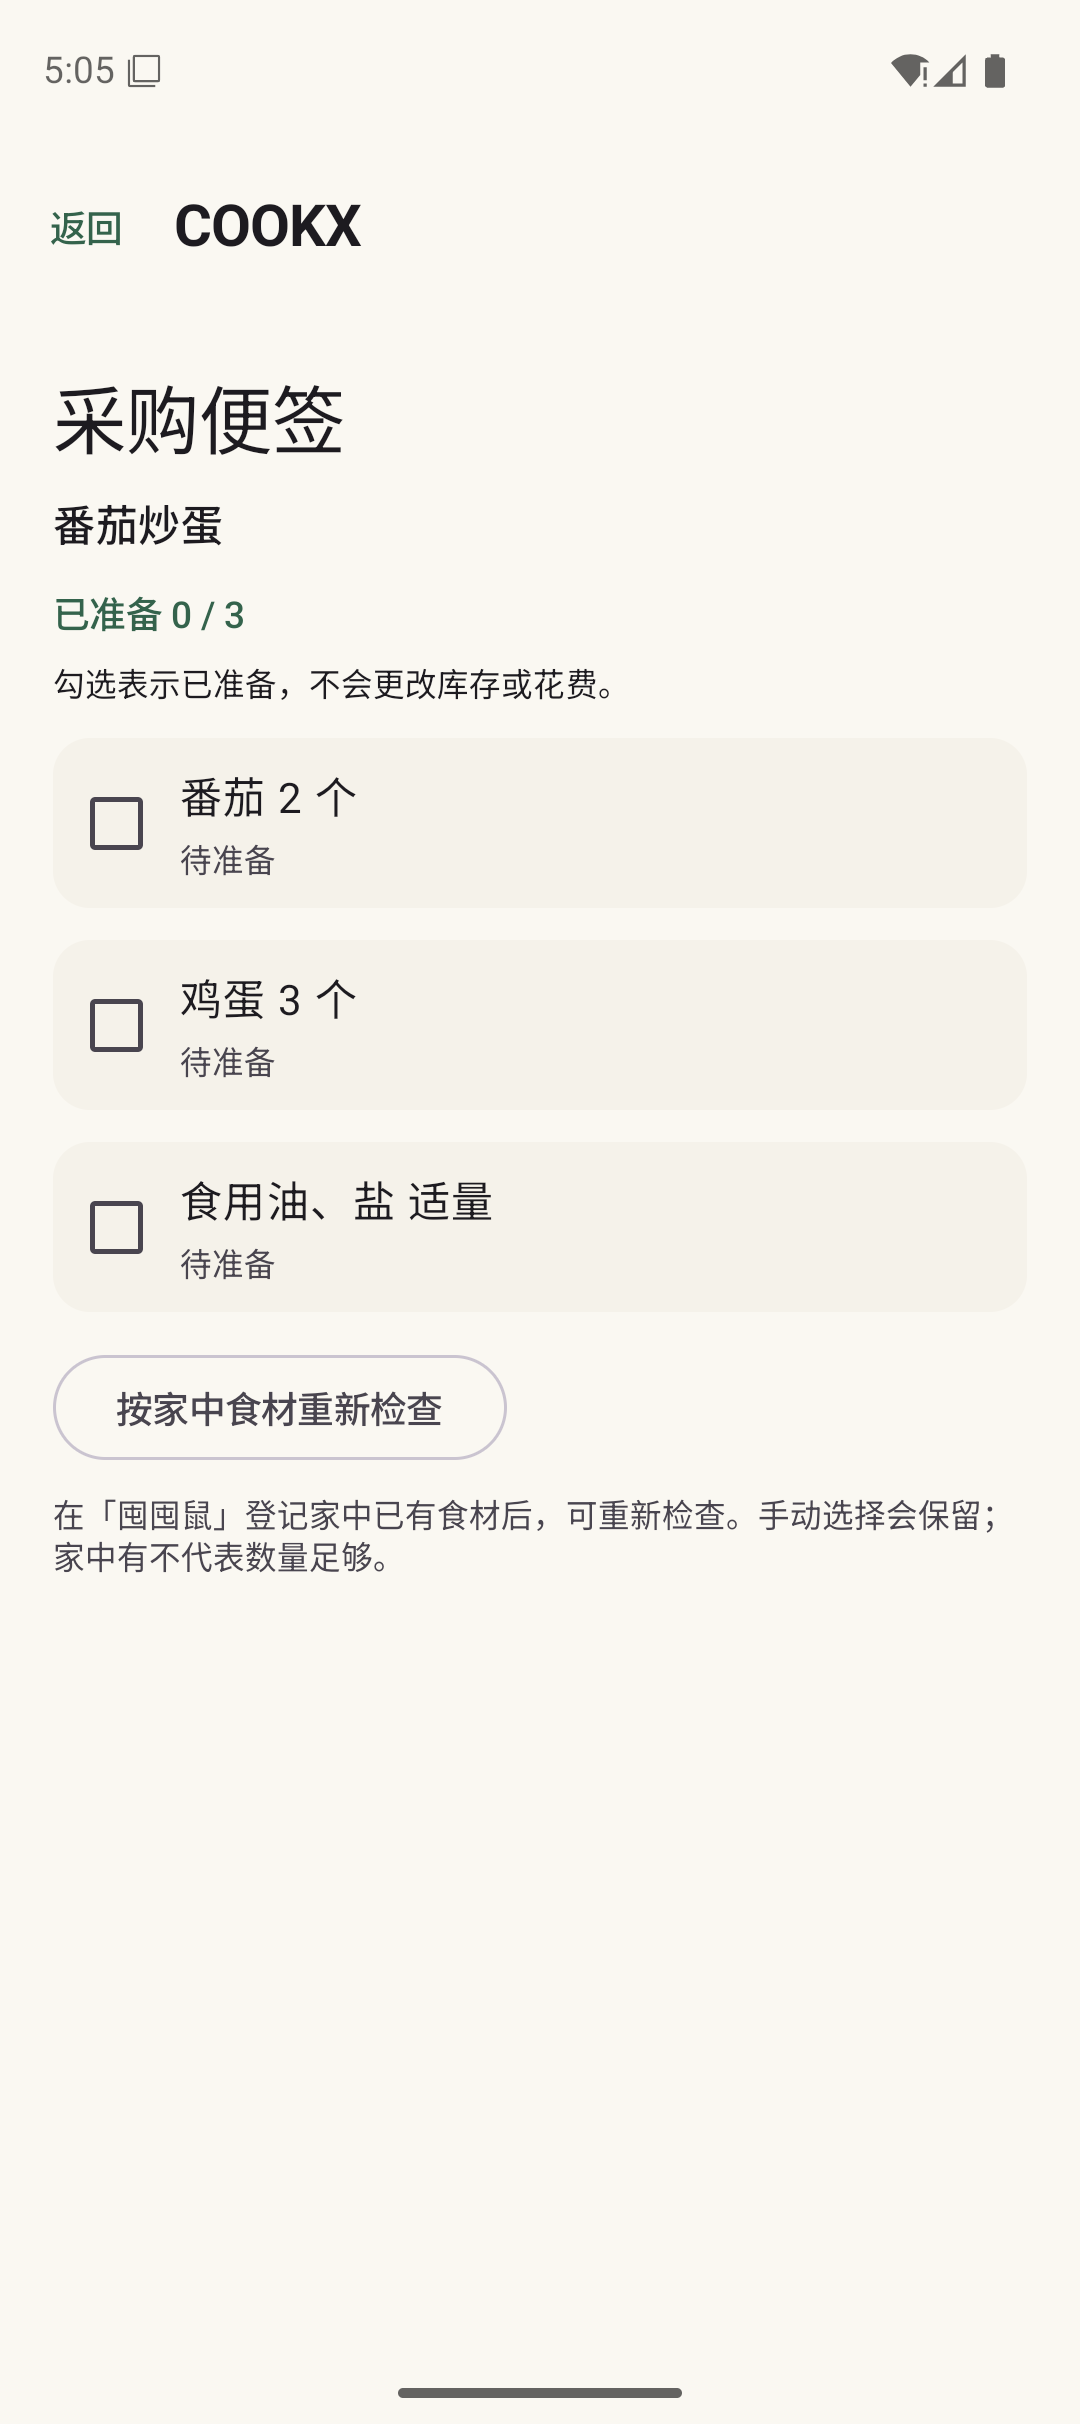
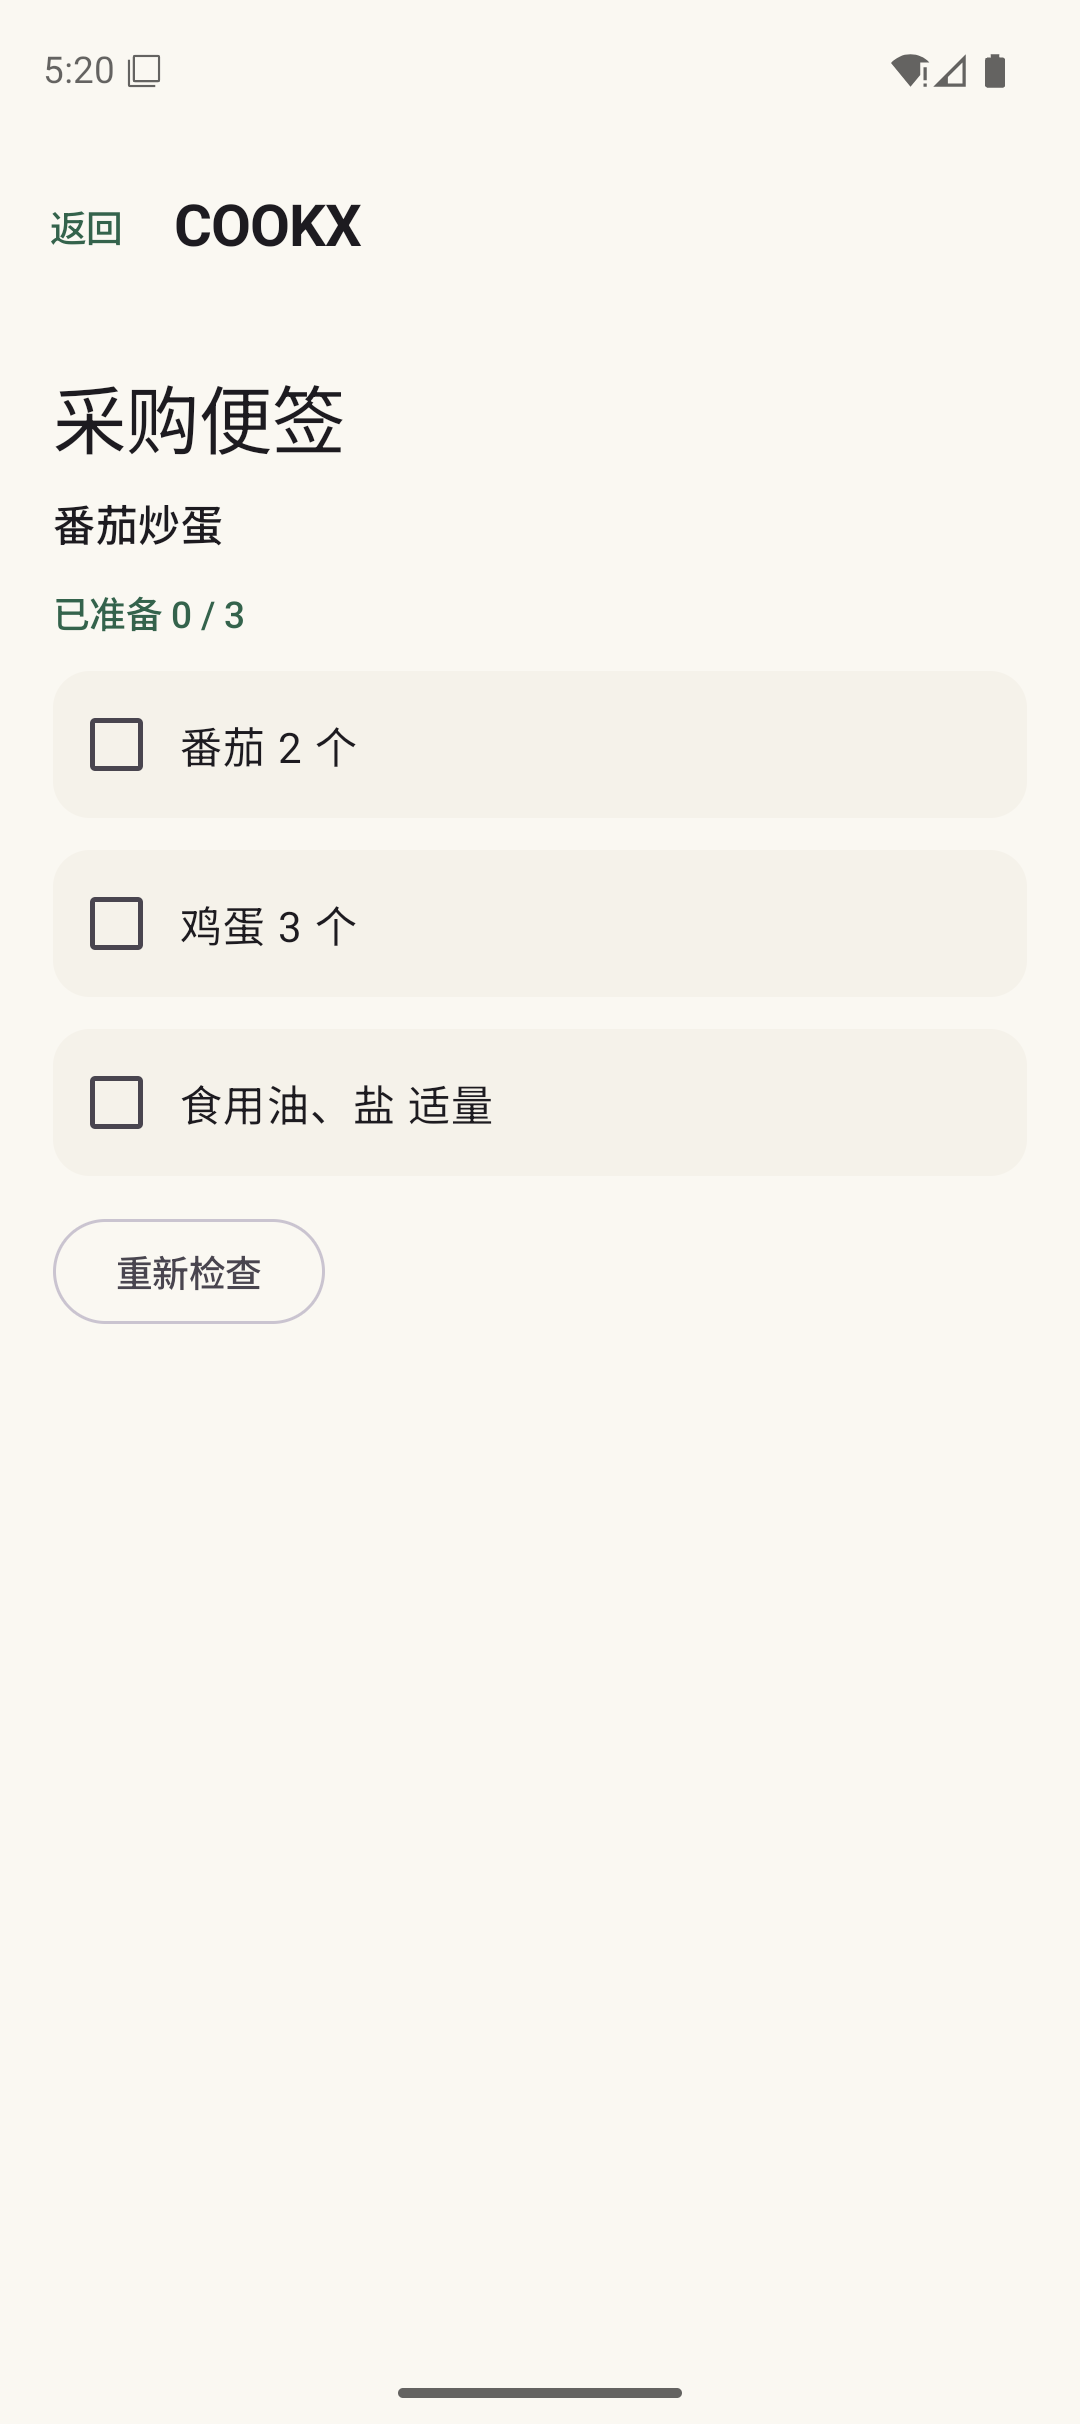
style: remove explanatory microcopy from shopping and pantry screens

diff --git a/app/src/main/kotlin/com/cookx/app/ui/ShoppingMemoScreen.kt b/app/src/main/kotlin/com/cookx/app/ui/ShoppingMemoScreen.kt
@@ -24,11 +24,10 @@ import com.cookx.app.domain.*
             Text(recipe.name, Modifier.padding(top = 8.dp), style = MaterialTheme.typography.titleMedium)
             Text("已准备 ${memo.items.count { it.checked }} / ${memo.items.size}", Modifier.padding(top = 12.dp),
                 style = MaterialTheme.typography.labelLarge, color = MaterialTheme.colorScheme.primary)
-            Text("勾选表示已准备，不会更改库存或花费。", Modifier.padding(top = 8.dp), style = MaterialTheme.typography.bodySmall)
         }
         items(memo.items, key = { it.key }) { item ->
             Surface(shape = RoundedCornerShape(14.dp), color = MaterialTheme.colorScheme.surfaceContainerLow) {
-                Row(Modifier.fillMaxWidth().toggleable(value = item.checked, enabled = !busy, role = Role.Checkbox,
+                Row(Modifier.fillMaxWidth().heightIn(min = 56.dp).toggleable(value = item.checked, enabled = !busy, role = Role.Checkbox,
                     onValueChange = { check(item.key, it) }).testTag("shopping:${item.key}").padding(horizontal = 12.dp, vertical = 10.dp),
                     verticalAlignment = Alignment.CenterVertically) {
                     Checkbox(checked = item.checked, onCheckedChange = null, enabled = !busy)
@@ -36,20 +35,13 @@ import com.cookx.app.domain.*
                     Column(Modifier.weight(1f), verticalArrangement = Arrangement.spacedBy(4.dp)) {
                         Text(item.ingredient, style = MaterialTheme.typography.bodyLarge,
                             textDecoration = if (item.checked) TextDecoration.LineThrough else null)
-                        Text(when (item.source) {
-                            PreparationSource.PANTRY -> "家中已有 · 请核对余量"
-                            PreparationSource.MANUAL -> if (item.checked) "手动勾选" else "手动标记待准备"
-                            PreparationSource.PENDING -> "待准备"
-                        }, style = MaterialTheme.typography.bodySmall, color = MaterialTheme.colorScheme.onSurfaceVariant)
+
                     }
                 }
             }
         }
         item {
-            OutlinedButton(onClick = recheck, enabled = !busy) { Text("按家中食材重新检查") }
-            Text("在「囤囤鼠」登记家中已有食材后，可重新检查。手动选择会保留；家中有不代表数量足够。",
-                Modifier.padding(top = 8.dp), style = MaterialTheme.typography.bodySmall,
-                color = MaterialTheme.colorScheme.onSurfaceVariant)
+            OutlinedButton(onClick = recheck, enabled = !busy) { Text("重新检查") }
         }
     }
 }
@@ -62,23 +54,19 @@ import com.cookx.app.domain.*
         item {
             Text("囤囤鼠", style = MaterialTheme.typography.headlineMedium)
             Text("家中已有食材", Modifier.padding(top = 12.dp), style = MaterialTheme.typography.titleMedium)
-            Text("登记家里有的食材，用来预选采购便签。这里只记录是否已有，暂不记录数量和采购花费。",
-                Modifier.padding(top = 8.dp), style = MaterialTheme.typography.bodySmall)
         }
         item {
-            OutlinedTextField(name, { name = it.take(64) }, label = { Text("食材名称，例如：鸡蛋") }, singleLine = true, modifier = Modifier.fillMaxWidth())
+            OutlinedTextField(name, { name = it.take(64) }, label = { Text("食材名称") }, singleLine = true, modifier = Modifier.fillMaxWidth())
             Button(onClick = { add(name) }, enabled = name.isNotBlank() && !busy, modifier = Modifier.padding(top = 10.dp)) { Text("登记家中已有") }
-            Text("请使用与菜谱相同的食材名称；不会自动匹配替代品。", Modifier.padding(top = 6.dp), style = MaterialTheme.typography.bodySmall)
         }
-        if (pantry.isEmpty()) item { Text("还没有登记食材。采购便签仍可手动勾选。", style = MaterialTheme.typography.bodyMedium) }
+        if (pantry.isEmpty()) item { Text("暂无食材", style = MaterialTheme.typography.bodyMedium) }
         items(pantry, key = { it.id }) { item ->
-            Row(Modifier.fillMaxWidth().toggleable(item.available, enabled = !busy, role = Role.Checkbox,
+            Row(Modifier.fillMaxWidth().heightIn(min = 48.dp).toggleable(item.available, enabled = !busy, role = Role.Checkbox,
                 onValueChange = { setAvailable(item.id, it) }).padding(vertical = 6.dp), verticalAlignment = Alignment.CenterVertically) {
                 Checkbox(checked = item.available, onCheckedChange = null, enabled = !busy)
                 Spacer(Modifier.width(12.dp))
                 Column {
                     Text(item.name, style = MaterialTheme.typography.bodyLarge)
-                    Text(if (item.available) "家中已有 · 数量未记录" else "暂时没有", style = MaterialTheme.typography.bodySmall)
                 }
             }
         }

diff --git a/app/src/androidTest/kotlin/com/cookx/app/ShoppingMemoUiTest.kt b/app/src/androidTest/kotlin/com/cookx/app/ShoppingMemoUiTest.kt
@@ -48,10 +48,9 @@ class ShoppingMemoUiTest {
         val egg = "shopping:${memo.items[1].key}"
         compose.onNodeWithTag(tomato).assertIsOff()
         compose.onNodeWithTag(egg).assertIsOn()
-        compose.onNodeWithText("家中已有 · 请核对余量").assertExists()
         compose.onNodeWithTag(tomato).performClick()
         compose.onNodeWithTag(egg).performClick()
-        compose.onNodeWithText("按家中食材重新检查").performScrollTo().performClick()
+        compose.onNodeWithText("重新检查").performScrollTo().performClick()
         compose.runOnIdle { state.value = KitchenRepository(context, "cookx_shopping_test").read() }
         restore.emulateSavedInstanceStateRestore()
         compose.onNodeWithTag(tomato).assertIsOn()
@@ -70,9 +69,9 @@ class ShoppingMemoUiTest {
                     { _, available -> state.value = state.value.copy(pantryItems = state.value.pantryItems.map { it.copy(available = available) }) })
             } }
         }
-        compose.onNodeWithText("食材名称，例如：鸡蛋").performTextInput("鸡蛋")
+        compose.onNodeWithText("食材名称").performTextInput("鸡蛋")
         compose.onNodeWithText("登记家中已有").performScrollTo().performClick()
         compose.runOnIdle { assertEquals("鸡蛋", state.value.pantryItems.single().name) }
-        compose.onNodeWithText("家中已有 · 数量未记录").performScrollTo().assertIsDisplayed()
+        compose.onNode(isToggleable()).performScrollTo().assertIsOn()
     }
 }

diff --git a/README.md b/README.md
@@ -149,9 +149,9 @@ android skills list --agent=codex --project=.
 
 - 菜谱详情点击“准备食材”卡片，打开本菜的采购便签；按项勾选已准备的食材，保留用量原文及进度。
 - 在“囤囤鼠”登记家中已有食材，可切换“已有／暂时没有”。目前仅登记是否已有，不记录数量、采购入库或花费。
-- 首次生成便签时，按当前家庭的已有食材确定匹配并预选；标注“家中已有 · 请核对余量”。按已确认的“已有就预选”规则处理，不推断是否足量。
+- 首次生成便签时，按当前家庭的已有食材确定匹配并预选；按已确认的“已有就预选”规则处理，不推断是否足量；页面不额外显示解释性提示。
 - 匹配只去除可识别的用量后缀，再按名称精确比较，不做食材别名或替代品推断。组合食材行保留原文，由用户手动核对。
-- 便签勾选不写入库存，也不增加制作记录或支出。重开保留进度，“按家中食材重新检查”保留所有手动选择。
+- 便签勾选不写入库存，也不增加制作记录或支出。重开保留进度，“重新检查”保留所有手动选择。
 - 数据字段以空列表默认值兼容旧记录；便签与已有食材信息保存在原家庭的本机存储内。采购便签不是做菜完成状态。
 - 新增 `ShoppingMemoTest` 与 `ShoppingMemoUiTest`，覆盖匹配、家庭隔离、手动选择优先、重复行、重开持久化及库存不变；设备测试使用独立存储，不清空当前家庭数据。
 
